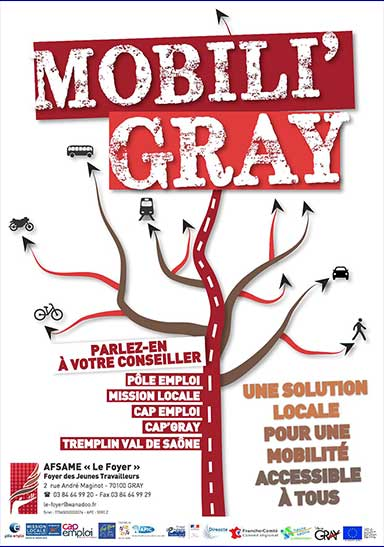
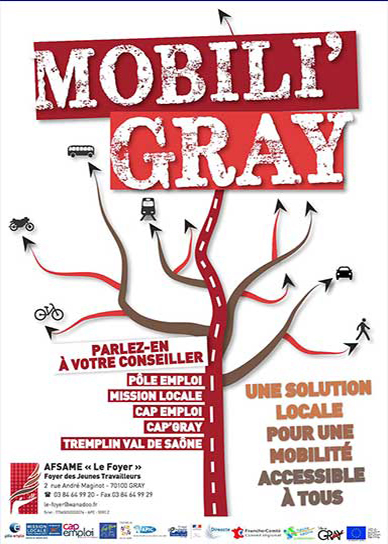
mise en commun css

diff --git a/actualites.html b/actualites.html
@@ -68,8 +68,8 @@
 								<header>
 									<h5>La fête du vélo</h5>
 								</header>
-								<p class="article">Organisée par l’AFSAME, la traditionnelle fête du vélo aura lieu le 4 Juin 2017. Au programme, des animations et des activités autour du vélo.</p>
-								<p class="article">Nous vous attendons nombreux pour participer à la boucle cycliste de 22 kms. Vous pourrez également vous restaurez sur place.</p>
+								<p class="article">Organisée par l’AFSAME, la traditionnelle fête du vélo aura lieu le 4 Juin 2017. Au programme, des animations et des activités autour du vélo.</p><br>
+								<p class="article">Nous vous attendons nombreux pour participer à la boucle cycliste de 22 kms. Vous pourrez également vous restaurez sur place.</p><br>
 								<p class="article">Participation de 2 €.</p>	
 							</div>
 						</div>
@@ -83,10 +83,10 @@
 								<header>
 									<h5>Soirée oenologie</h5>
 								</header>
-								<p class="article">Le 27 Mars prochain aura lieu la soirée oenologie.</p>
-								<p class="article">Une dégustation des vins de la région sera proposée en compagnie du viticulteur et d’un oenologue afin d’initier les participants aux saveurs viticoles.</p>
+								<p class="article">Le 27 Mars prochain aura lieu la soirée oenologie.</p><br>
+								<p class="article">Une dégustation des vins de la région sera proposée en compagnie du viticulteur et d’un oenologue afin d’initier les participants aux saveurs viticoles.</p><br>
 								<p class="article">Nous vous attendons nombreux dans la salle du Foyer !</p>
-								<p class="article">Entrée gratuite pour les résidents.</p>
+								<p class="article">Entrée gratuite pour les résidents.</p><br>
 								<p class="article">Participation de 2 €.</p>	
 							</div>
 						</div>
@@ -95,16 +95,16 @@
 				<section>
 					<article class="actus">
 						<div class="image">
-							<img src="images/mobili.jpg" width="384" height="547" alt="affiche de mobili'gray"/><p class="date">22/03/17</p>
+							<img src="images/mobili.jpg" width="388" height="547" alt="affiche de mobili'gray"/><p class="date">22/03/17</p>
 							<div class="textebloc">
 								<header>
 									<h5>Une solution locale !</h5>
 								</header>
-								<p class="article">MOBILI’GRAY voit le jour sur le bassin graylois. Porté par le Foyer des Jeunes Travailleurs AFSAME Le Foyer, ce dispositif expérimental tente d’apporter une réponse aux personnes inscrites dans une démarche d’insertion socio-professionnelle et dont la concrétisation du projet professionnel est compromise par un problème de mobilité.</p>
-								<p class="article">Sous la forme d’un parcours modulaire adapté à chacun, il s’appuie sur une pédagogie spécifique, un accompagnement renforcé et s’adresse à un public bien défini.</p> 
-								<p class="article"> class="article"Il repose sur un diagnostic mobilité puis des formations pédagogiques. Le dispositif prend en compte les principes d’égalité hommes/femmes, égalité des chances et non-discrimination et développement durable.</p>
-								<p class="article">Sa mise en place est rendue possible par un travail partenarial fort et grâce au soutien indispensable de l’Union Européenne, l’État, la Région Franche-Comté, le Département de la Haute-Saône et la ville de Gray.</p>
-								<p class="article">40 personnes ont la possibilité de bénéficier de ce dispositif, pourquoi pas vous ?</p>
+								<p class="article">MOBILI’GRAY voit le jour sur le bassin graylois. Porté par le Foyer des Jeunes Travailleurs AFSAME Le Foyer, ce dispositif expérimental tente d’apporter une réponse aux personnes inscrites dans une démarche d’insertion socio-professionnelle et dont la concrétisation du projet professionnel est compromise par un problème de mobilité.</p><br>
+								<p class="article">Sous la forme d’un parcours modulaire adapté à chacun, il s’appuie sur une pédagogie spécifique, un accompagnement renforcé et s’adresse à un public bien défini.</p> <br>
+								<p class="article">Il repose sur un diagnostic mobilité puis des formations pédagogiques. Le dispositif prend en compte les principes d’égalité hommes/femmes, égalité des chances et non-discrimination et développement durable.</p><br>
+								<p class="article">Sa mise en place est rendue possible par un travail partenarial fort et grâce au soutien indispensable de l’Union Européenne, l’État, la Région Franche-Comté, le Département de la Haute-Saône et la ville de Gray.</p><br>
+								<p class="article">40 personnes ont la possibilité de bénéficier de ce dispositif, pourquoi pas vous ?</p><br>
 								<p class="article">Pour tout renseignement, n’hésitez pas à nous contacter au 03 84 64 99 20, parlez-en à votre conseiller Pôle Emploi, Mission Locale, Cap Emploi, Cap’Gray ou Tremplin Val de Saône.</p>
 							</div>
 						</div>
@@ -113,14 +113,14 @@
 				<section>
 					<article class="actus">
 						<div class="image">
-							<img src="images/travaux.jpg" width="402" height="300" alt="photo des travaux en cours"/><p class="date">20/03/17</p>
+							<img src="images/travaux.jpg" width="388" height="300" alt="photo des travaux en cours"/><p class="date">20/03/17</p>
 							<div class="textebloc">
 								<header>
 									<h5>Travaux de réhabilitation</h5>
 								</header>
-								<p class="article">Depuis le 29 mars 2016, des travaux de réhabilitation ont débutés au Foyer des jeunes travailleurs. Actuellement, les travaux d'installation de l'ascenseur ont débutés. L'objectif étant de pouvoir accueillir tous les publics, y compris les personnes à mobilité réduite.</p>
-								<p class="article">De nouvelles bornes Wi-Fi et un nouveau module portail d'accès internet sécurisé ont été installés</p>
-								<p class="article">Pour vous connecter à internet en WI-Fi ou en filaire, vous devez demander à l'accueil votre code d'accès. Pour les branchements en filaire, un cable RJ 45 est obligatoire.</p>
+								<p class="article">Depuis le 29 mars 2016, des travaux de réhabilitation ont débutés au Foyer des jeunes travailleurs. Actuellement, les travaux d'installation de l'ascenseur ont débutés. L'objectif étant de pouvoir accueillir tous les publics, y compris les personnes à mobilité réduite.</p><br>
+								<p class="article">De nouvelles bornes Wi-Fi et un nouveau module portail d'accès internet sécurisé ont été installés</p><br>
+								<p class="article">Pour vous connecter à internet en WI-Fi ou en filaire, vous devez demander à l'accueil votre code d'accès. Pour les branchements en filaire, un cable RJ 45 est obligatoire.</p><br>
 								<p class="article">Si vous le souhaitez, ceux-ci sont en vente à l'accueil au prix de 6 €.</p>
 							</div>
 						</div>

diff --git a/css/stylesheet.css b/css/stylesheet.css
@@ -166,7 +166,7 @@ h3 {
  /* cecile*/
 .image{
 	display: flex;
-	margin-bottom: 40px;
+	
 }
 
 .image .date{
@@ -181,7 +181,7 @@ h3 {
 
 .textebloc{
 	background-color: var(--blanc);
-	padding-bottom: 40px;
+	/*padding-bottom: 40px;*/
 	margin-left: 0;
 
 }
@@ -213,6 +213,53 @@ h3 {
 	margin: 20px;
 	justify-content: center;
 }
+
+
+
+
+
+
+
+
+
+
+
+
+
+
+
+
+
+
+
+
+
+
+
+
+
+
+
+
+
+
+
+
+
+
+
+
+
+
+
+
+
+
+
+
+
+
+
 
 
 
@@ -346,11 +393,25 @@ h3 {
 /*DEBUT PARTIE CECILE*/
 
 
+section{
+	padding-bottom: 60px;
+}
 
+.article{
+	padding-left: 25px;
+	margin:0;
 
+	
+}
 
-
-
+h5{
+	font-size: 1.2vw;
+	font-weight: 900;
+	padding-left: 25px;
+	margin: auto;
+	padding-top: 30px;
+	padding-bottom: 20px;
+}
 
 
 
